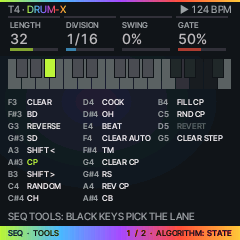
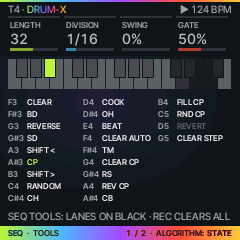
fix(ui): SEQ TOOLS / REC layer review fixes

Changed region(s): [[0.2625, 0.875, 0.9625, 0.9333]]

diff --git a/tests/ui_test.c b/tests/ui_test.c
@@ -17393,7 +17393,7 @@ static int test_t9_knobs(void)
     bad += check("  FX: the status line says its keys, a turn its readout (STEP LOOP . 1/2), one panel; ALGORITHM MAP <-> STATE", ok);
     {   /* widths: knob names in their column, the status lines within 224 px, the list's names in their column, the footer */
         int okw = 1;
-        uint32_t l, k, s;
+        uint32_t l, k, s, dm;
         for (k = 0; k < 4u; k++) okw &= text_w(&UF_LBL, UXL_PM[k]) <= UX_COL_W - 4 && text_w(&UF_LBL, UXL_MAC[k]) <= UX_COL_W - 4;
         for (k = 0; k < 16u; k++) okw &= text_w(&UF_LBL, UXL_GX[k]) <= UX_COL_W - 4;
         for (k = 0; k < 5u; k++) okw &= text_w(&UF_VAL, UXL_LOOP[k]) <= UX_COL_W - 4;
@@ -17402,9 +17402,12 @@ static int test_t9_knobs(void)
         for (k = 0; k < 4u; k++) if (text_w(&UF_HDR, UXL_GXSAY[k]) > 224) { printf("  \"%s\" %d px\n", UXL_GXSAY[k], (int)text_w(&UF_HDR, UXL_GXSAY[k])); okw = 0; }
         for (k = 0; k < UXL_W_N; k++)
             for (s = 0; s < 2u; s++) okw &= 8 + uxf_w(UXL_WHERE[k]) + 16 + uxf_w(UXL_ALGO[s]) <= 232;
+        for (dm = 0; dm < 3u; dm++) {                    /* (3c-1 task 5: a synth, a DRUM track on each kit: CLEAR <lane>) */
+        set_engine_of(TSEL, dm ? ENGI_DRUM : ENGI_ANALOG); TSEL->engine = TSEL->eng_req; TSEL->p[P_E0] = (int16_t)(dm ? dm - 1u : 0u);
         for (l = 0; l < 6u; l++)                         /* every key's name a layer can show, in the list's column */
             for (s = 0; s < 3u; s++) {
                 pfx_tgt = (uint8_t)s;
+                rp_put(RP_CLICK, s);                     /* (CLICK OFF / REC / ON on REC's G3) */
                 for (k = 0; k < 27u; k++) {
                     char nm[12], nt[4];
                     int blk;
@@ -17416,6 +17419,8 @@ static int test_t9_knobs(void)
                     okw &= text_w(&UF_LBL, nt) <= UXL_LS_NM - 3;
                 }
             }
+        }
+        rp_put(RP_CLICK, 0);
         pfx_tgt = 0;
         bad += check("  widths: knob names and values in their columns, status lines <= 224 px, the keys' names in the list", okw);
     }
@@ -17437,12 +17442,12 @@ static int test_t9_knobs(void)
 static int test_c5_layers(void)
 {
     static const char *const PG[2] = {"STEP", "PATTERN"};
-    int bad = 0, ok = 1, own = 1;
-    uint32_t i, d, c;
+    int bad = 0, ok = 1, own;
+    uint32_t d, c;
     char nm[12];
     ux_knob_t k[4];
-    ok = ux_layer_owns(LAYER_SEQ) && ux_layer_owns(LAYER_REC);
-    own = ok;
+    uint16_t sc;
+    own = ux_layer_owns(LAYER_SEQ) && ux_layer_owns(LAYER_REC);
     for (d = 0; d < 2u; d++) {                           /* SEQ TOOLS: a synth track, a DRUM track */
         uint32_t st;
         uint16_t f;
@@ -17464,11 +17469,15 @@ static int test_c5_layers(void)
         }
         st = ly_keyname(LAYER_SEQ, 0, 0u, nm);           /* F3 CLEAR: a key that does something, in the ux fill */
         f = ux_px(11u, UX_Y_PANEL + UXL_KB_Y + 25u);
-        if (f != uxl_fill(st, nm[0] != 0, 0)) { printf("  SEQ %u: F3 %04x\n", (unsigned)d, f); ok = 0; }
+        if (st != LS_OFF || !nm[0] || f != ux_mix(UX_BG, UX_MID, 55)) { printf("  SEQ %u: F3 %04x\n", (unsigned)d, f); ok = 0; }
+        if (!strstr(uxl_status(LAYER_SEQ, k, &sc), "REC CLEARS ALL")) { printf("  SEQ %u: no REC hint\n", (unsigned)d); ok = 0; }
         if (!str_eq(uxl_word("CLR AUTO"), "CLEAR AUTO") || !str_eq(uxl_word("CLR STEP"), "CLEAR STEP")) { printf("  words\n"); ok = 0; }
         ui.lylv = 0; ui.uxlv = 0;                        /* ALGORITHM: this layer's own view bit, not GLO's lens */
         turn(EN_ALGO, 1); frame();
         if (!((ui.uxlv >> LAYER_SEQ) & 1u) || ui.lylv) { printf("  SEQ %u: uxlv %x lylv %u\n", (unsigned)d, ui.uxlv, ui.lylv); ok = 0; }
+        chain.running = 1;                               /* a song playing: STOP TO EDIT, the REC hint stays */
+        if (!strstr(uxl_status(LAYER_SEQ, k, &sc), "REC CLEARS ALL") || !strstr(uxl_status(LAYER_SEQ, k, &sc), "STOP")) { printf("  SEQ %u: busy hint\n", (unsigned)d); ok = 0; }
+        chain.running = 0;
         turn(EN_ALGO, -1); frame();
         if ((ui.uxlv >> LAYER_SEQ) & 1u) { printf("  SEQ %u: STATE stuck\n", (unsigned)d); ok = 0; }
         btn_up(B_SEQ); frames(400);
@@ -17480,8 +17489,12 @@ static int test_c5_layers(void)
     go_title(PG[0]); frame();
     btn_down(B_REC); frames(800);
     if (ui.layer != LAYER_REC) { printf("  REC not open\n"); ok = 0; }
-    ui.force = 1; frame();
+    rp_put(RP_CLICK, 1u); ui.force = 1; frame();
     if (!uxt9_blend(ux_px(120, 0)) || !uxt9_blend(ux_px(2, 238))) { printf("  REC: no blend\n"); ok = 0; }
+    if (ux_px(236, UX_Y_STATUS + 10u) != UX_BG) { printf("  REC: status not on BG\n"); ok = 0; }
+    if (ux_px(8u + UXL_KB_W + 3u, UX_Y_PANEL + UXL_KB_Y + 25u) != UX_ACID) { printf("  REC: G3 CLICK not ACID (%04x)\n", ux_px(8u + UXL_KB_W + 3u, UX_Y_PANEL + UXL_KB_Y + 25u)); ok = 0; }
+    {   uint32_t x = UX_COL_X0; uint16_t r = ux_px(x + 20u, UX_Y_KNOBS);
+        if (r != UX_LINE && r != ux_knob_col(0)) { printf("  REC: K1 rule %04x\n", r); ok = 0; } }
     uxl_knobs(LAYER_REC, k);
     ok &= str_eq(k[0].label, "CLICK") && !k[1].label[0] && !k[3].label[0] && k[0].value[0];
     ui.uxlv = 0;
@@ -17489,9 +17502,9 @@ static int test_c5_layers(void)
     ok &= ((ui.uxlv >> LAYER_REC) & 1u) && !ui.lylv;
     turn(EN_ALGO, -1); frame();
     btn_up(B_REC); frames(400);
+    rp_put(RP_CLICK, 0u);
     ui.uxlv = 0;
     bad += check("  .. REC: the knob row (K1 CLICK), the blend, its own view bit", ok);
-    (void)i;
     bad += check("  .. SEQ and REC are drawn by ux_layer.c", own);
     ui_power_on();
     return bad;

diff --git a/firmware/src/ui_layer.c b/firmware/src/ui_layer.c
@@ -61,9 +61,9 @@ static const layer_t LAYERS[LAYER_N] = {
     {B_GLO, LK_SET, FAM_HOME, "[GLO] SET", {{KC_PLAY, "RESTART"}, {KC_GLO, "DONE"}, {0, 0}}},
     {B_SCL, LK_SET, FAM_SCL, "[SCL] SET", {{KC_KEYS, "ROOT"}, {KC_SCL, "DONE"}, {0, 0}}},
     {B_EDIT, LK_SET, FAM_EDIT, "[EDIT] SET", {{KC_KEYS, "INIT / RECALL"}, {KC_EDIT, "DONE"}, {0, 0}}},
-    {B_SEQ, LK_SET, FAM_SEQ, "[SEQ] TOOLS", {{KC_REC, "CLEAR ALL"}, {KC_SEQ, "DONE"}, {0, 0}}},   /* (0.6.14: REC, all six
-                                                                     * tracks cleared, shown: it was nowhere) */
-    {B_REC, LK_SET, FAM_HOME, "[REC] SET", {{KC_KEYS, "RECORDING"}, {KC_REC, "DONE"}, {0, 0}}},
+    {B_SEQ, LK_SET, FAM_SEQ, "[SEQ] TOOLS", {{0, 0}, {0, 0}, {0, 0}}},   /* (3c-1: drawn by ux_layer.c, its status
+                                                                     * line says REC CLEARS ALL) */
+    {B_REC, LK_SET, FAM_HOME, "[REC] SET", {{0, 0}, {0, 0}, {0, 0}}},
     {B_SAVE, LK_SET, FAM_HOME, "[SAVE] SONG", {{KC_KEYS, "PLAY"}, {KC_OCTUP, "STORE"}, {KC_OCTDN, "RECALL"}}},
     {B_LFO, LK_SET, FAM_HOME, "[LFO] MACRO", {{KC_K14, "M1-M4"}, {KC_SELECT, "DICE"}, {KC_KEYS, "DICE / CLEAR"}}},   /* JIANT (mod.c macro_v; SELECT, F3: macro_dice, G3 clears) */
 };
@@ -657,7 +657,7 @@ static void layer_knob(uint32_t k, int32_t s)
 {
     uint32_t l = layer_open();
     lys.used = 1;
-    if (ux_layer_owns(l))
+    if (ux_layer_owns(l) && (l != LAYER_REC || k < RL_N))
         ux_knob_touch(k);                               /* (3b task 9: its column lit, its readout on the status line) */
     if (l == LAYER_FX) {                                /* (0.9.14) the performance macros (perform.c perf_m), not recorded; */
         uint32_t g = perf_gfocus();                     /* (0.9.17) a glitcher's key down: its own */

diff --git a/firmware/src/ui.c b/firmware/src/ui.c
@@ -281,9 +281,9 @@ static struct {
     uint8_t menu;                /* 0 off, 1 list, 2 about + credits (HOME held), 3 ABOUT > PROFILE (0.9.14) */
     uint8_t menu_sel;            /* MENU: the setting turned last (menu_items.c MI_*; its page MPAGE), kept while it runs */
     uint8_t mlv;                 /* (0.8.5) MENU's view: 1 TAB (its rows; 0.9.2: always, 0 MENU and 2 ROW for the renders) */
-    uint8_t lylv;                /* (0.8.5) a held layer's lens: 0 MAP, 1 KNOBS, 2 STATE (ALGORITHM while held); GLO, SEQ
-                                  * TOOLS, REC, SAVE (JIANT's overlay) */
-    uint16_t uxlv;               /* (3b task 9 fix) the ACID layers' (EDIT MACRO FX SCL, ux_layer.c) own: a bit a layer
+    uint8_t lylv;                /* (0.8.5) a held layer's lens: 0 MAP, 1 KNOBS, 2 STATE (ALGORITHM while held); GLO, SAVE
+                                  * (JIANT's overlay; the ACID layers keep uxlv) */
+    uint16_t uxlv;               /* (3b task 9 fix) the ACID layers' (EDIT MACRO FX SCL SEQ REC, ux_layer.c) own: a bit a layer
                                   * (1 << LAYER_*), STATE; clear MAP */
     uint16_t menu_scroll;        /* continuous ABOUT + CREDITS position, pixels */
     uint32_t menu_sig, home_t0;  /* HOME press time (btn_hold) */

diff --git a/firmware/src/ux_layer.c b/firmware/src/ux_layer.c
@@ -42,8 +42,8 @@ static const char *const UXL_SAY[UXL_S_N] = {"FX: KEYS PLAY EFFECTS \xB7 BLACK K
                                              "SCL: A KEY SETS THE ROOT \xB7 NO OCTAVE", "LFO: F3 DICE \xB7 G3 CLEAR \xB7 SELECT DICE",
                                              "MACROS LATCHED: PRESS LFO TO CLOSE",
                                              "SEQ TOOLS: WHITE KEYS \xB7 REC CLEARS ALL",
-                                             "SEQ TOOLS: BLACK KEYS PICK THE LANE",
-                                             "SEQ TOOLS: STOP TO EDIT",
+                                             "SEQ TOOLS: LANES ON BLACK \xB7 REC CLEARS ALL",
+                                             "STOP TO EDIT \xB7 REC CLEARS ALL",
                                              "REC: F3 CLEAR \xB7 G3 CLICK \xB7 KNOB 1 CLICK"};
 static const char *const UXL_GXSAY[4] = {"GLITCH HELD: ITS FOUR KNOBS", "TAPE STOP HELD: KNOB 1 SCRATCHES",
                                          "SHUFFLE HELD: ITS FOUR KNOBS", "FREEZE HELD: ITS FOUR KNOBS"};
